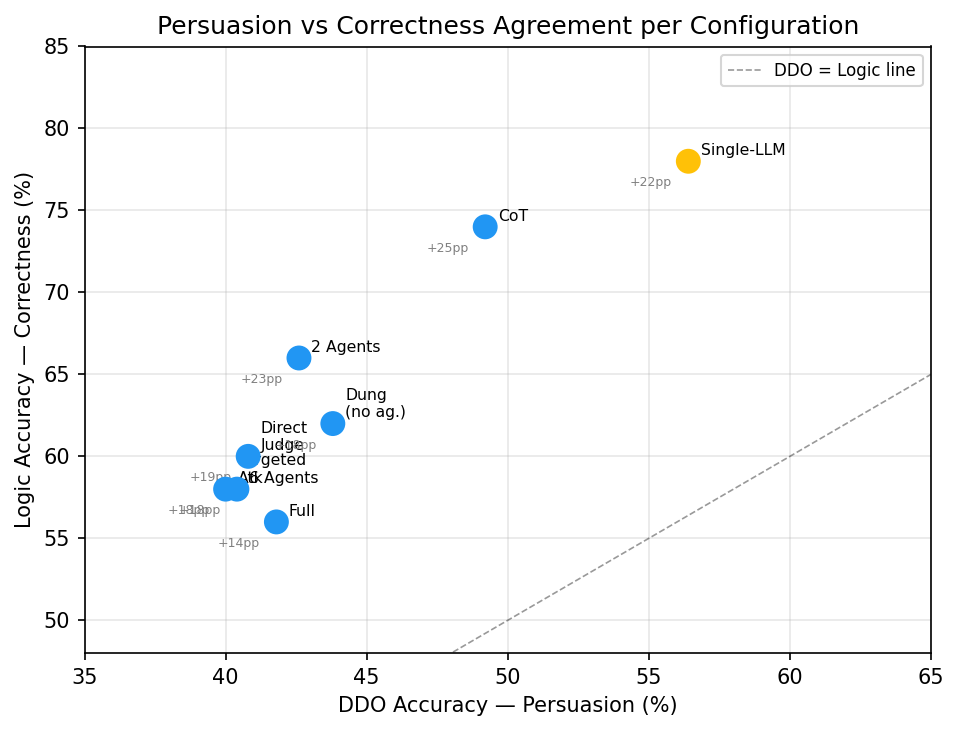
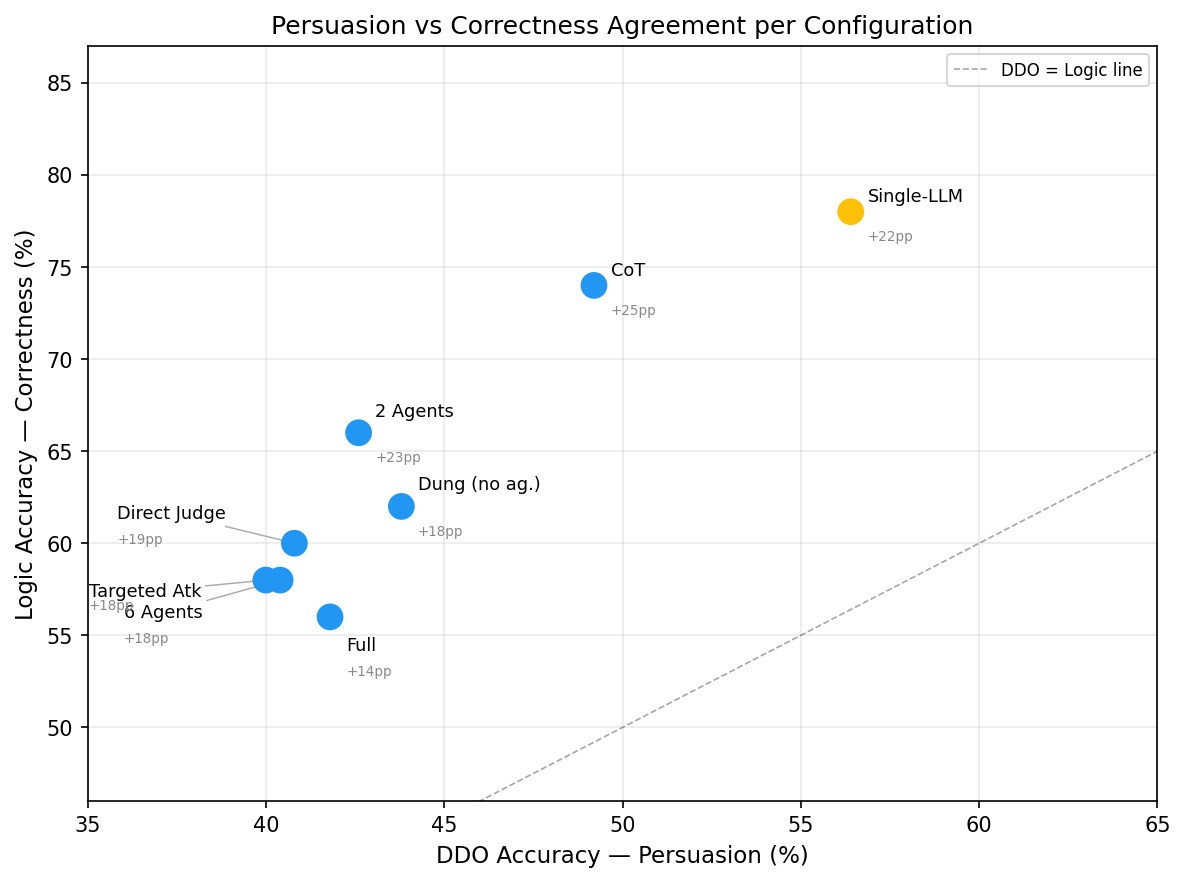
Updates to report

diff --git a/report/report.tex b/report/report.tex
@@ -9,6 +9,7 @@
 \usepackage{xcolor}
 \usepackage{tikz}
 \usetikzlibrary{arrows.meta, positioning, shapes.geometric}
+\usepackage{amssymb}
 \usepackage{hyperref}
 \usepackage{array}
 
@@ -68,12 +69,12 @@
 % ─────────────────────────────────────────────────────────────────────────────
 
 \title{MAJ-Debate: Multi-Agent LLM Argumentation Framework\\
-       for Automated Debate Judgment: Final Report}
+       for Automated Debate Judgment}
 
-\author{Prajwal Bhandary \quad Saugat Shakya \quad Prabidhi Pyakurel \quad Rahul Shakya \\[0.3em]
+\author{Prajwal Bhandary \quad Saugat Shakya \quad Prabidhi Pyakurel \quad Rahul Shakya  \quad Shah Md Jobayer \\[0.3em]
         {\small\itshape Natural Language Processing Course, Master's Program} \\
         {\small\itshape Asian Institute of Technology (AIT), Pathum Thani, Thailand} \\
-        {\small\ttfamily \{st126380,st125974,st125982,st125986\}@ait.ac.th}}
+        {\small\ttfamily \{st126380,st125974,st125982,st125986,st126404\}@ait.ac.th}}
 
 \date{}
 
@@ -246,7 +247,7 @@ Figure~\ref{fig:pipeline}.
 \begin{tikzpicture}[
     node distance=0.7cm and 0.5cm,
     stage/.style={rectangle, draw, rounded corners=4pt, text centered,
-                  minimum height=1.0cm, minimum width=8cm, font=\small},
+                  minimum height=1.0cm, minimum width=12cm, font=\small},
     agent/.style={rectangle, draw, rounded corners=3pt, text centered,
                   minimum height=0.8cm, minimum width=1.8cm, font=\footnotesize},
     arr/.style={->, thick},
@@ -257,7 +258,7 @@ Figure~\ref{fig:pipeline}.
 \node[agent, fill=red!15,   right=1.0cm of p3] (c1) {Con 1};
 \node[agent, fill=red!15,   right=0.4cm of c1] (c2) {Con 2};
 \node[agent, fill=red!15,   right=0.4cm of c2] (c3) {Con 3};
-\node[above=0.15cm of p2, font=\small\bfseries, anchor=south]
+\node[above=0.15cm of p3, xshift=1.4cm, font=\small\bfseries, anchor=south]
     {Stage 1: Side-Picking Agents (R1 + R2)};
 \node[stage, fill=orange!20, below=1.0cm of p3, xshift=1.3cm] (atk)
     {Stage 2: Attack-Relation Brain \quad
@@ -332,6 +333,49 @@ however, scoring on defended positions yields:
 \end{align*}
 giving a \textbf{graph verdict of CON} (correct, margin~$-1.0$\,pp).
 
+\begin{figure}[t]
+\centering
+\begin{tikzpicture}[
+  node distance=1.8cm,
+  every node/.style={circle, draw, thick, minimum size=0.9cm, font=\small},
+  pro/.style={fill=blue!15, draw=blue!60},
+  con/.style={fill=red!15, draw=red!60},
+  att/.style={-{Stealth[length=6pt]}, thick},
+]
+
+%% Nodes
+\node[pro] (P1) at (0, 0)   {$p_1$};
+\node[pro] (P2) at (0,-1.8) {$p_2$};
+\node[pro] (P3) at (0,-3.6) {$p_3$};
+
+\node[con] (C1) at (3.5, 0)   {$c_1$};
+\node[con] (C2) at (3.5,-1.8) {$c_2$};
+\node[con] (C3) at (3.5,-3.6) {$c_3$};
+
+%% Con attacks Pro
+\draw[att, red!70] (C1) -- (P1);
+\draw[att, red!70] (C2) -- (P2);
+\draw[att, red!70] (C3) -- (P3);
+
+%% Con arguments are unattacked (grounded, defended)
+%% Add a dummy attacker on Pro side that gets rebutted
+\draw[att, blue!60] (P1) to[bend left=20] (C2);
+\draw[att, red!70]  (C1) to[bend left=20] (P1);  %% C1 defeats P1's attack
+
+%% Labels
+\node[draw=none, fill=none, font=\footnotesize\itshape, text=blue!70]
+  at (-1.1, -1.8) {Pro};
+\node[draw=none, fill=none, font=\footnotesize\itshape, text=red!70]
+  at (4.6, -1.8)  {Con};
+
+\end{tikzpicture}
+\caption{Simplified Dung attack graph (6 nodes). Con arguments $c_1$–$c_3$
+are unattacked and form the grounded extension; $p_1$'s counter-attack on
+$c_2$ is defeated by $c_1$. Scoring defended positions yields
+\textsc{Pro}\,=\,0.0, \textsc{Con}\,=\,1.0 $\Rightarrow$ verdict \textbf{CON}.}
+\label{fig:dung-simple}
+\end{figure}
+
 \paragraph{Stage 4 -- Judge override.}
 Despite \texttt{used\_graph=True}, the judge returns:
 \begin{quote}
@@ -345,14 +389,6 @@ This is a canonical \textbf{E3 -- judge override} failure
 (\S\ref{sec:error}).
 The final pipeline output is \textbf{PRO~$\times$} versus gold \textbf{CON}.
 
-\begin{figure}[t]
-  \centering
-  \includegraphics[width=\columnwidth]{figures/fig_running_example.png}
-  \caption{Four-stage pipeline walkthrough for LOGIC\_002 (``penguins can
-  fly''). The Dung graph correctly returns CON but the Stage~4 judge
-  overrides the verdict to PRO, illustrating failure mode E3.}
-  \label{fig:running}
-\end{figure}
 
 %% ── 4. Dataset and Exploratory Analysis ───────────────────────────────────────
 \section{Dataset and Exploratory Analysis}

diff --git a/report/generate_figures.py b/report/generate_figures.py
@@ -103,34 +103,86 @@ def fig_ablation_actual():
 # ─────────────────────────────────────────────────────────────────────────────
 # Fig 2  Persuasion vs Correctness scatter
 # ─────────────────────────────────────────────────────────────────────────────
+# pip install adjustText
+from adjustText import adjust_text
+
 def fig_persuasion_vs_correctness():
-    fig, ax = plt.subplots(figsize=(6.5, 5))
-    labels = ['Single-LLM','CoT','Direct\nJudge','2 Agents',
-              '6 Agents','Targeted\nAtk','Dung\n(no ag.)','Full']
-    colors = [C_BASE] + [C_DDO]*7
+    fig, ax = plt.subplots(figsize=(8, 6))
 
-    sc = ax.scatter(DDO_ACC, LOG_ACC, c=colors, s=120, zorder=5)
+    labels = ['Single-LLM', 'CoT', 'Direct Judge', '2 Agents',
+              '6 Agents', 'Targeted Atk', 'Dung (no ag.)', 'Full']
+    colors = [C_BASE] + [C_DDO] * 7
+
+    ax.scatter(DDO_ACC, LOG_ACC, c=colors, s=140, zorder=5)
+
+    # Manually tuned offsets (x_offset, y_offset) in points for each label
+    offsets = {
+        'Single-LLM':    (  8,   5),
+        'CoT':           (  8,   5),
+        'Direct Judge':  (-85,  12),
+        '2 Agents':      (  8,   8),
+        '6 Agents':      ( -75, -18),  # ← push left & down, away from Full
+        'Targeted Atk':  (-85,  -8),
+        'Dung (no ag.)': (  8,   8),
+        'Full':          (  8,  -16),  # ← push right & down
+    }
+
+
     for i, lbl in enumerate(labels):
-        ax.annotate(lbl, (DDO_ACC[i], LOG_ACC[i]),
-                    textcoords='offset points', xytext=(6, 3), fontsize=7.5)
+        dx, dy = offsets[lbl]
+        ax.annotate(
+            lbl,
+            xy=(DDO_ACC[i], LOG_ACC[i]),
+            xytext=(dx, dy),
+            textcoords='offset points',
+            fontsize=8.5,
+            fontweight='medium',
+            arrowprops=dict(
+                arrowstyle='-',
+                color='#aaaaaa',
+                lw=0.7,
+                shrinkA=0,
+                shrinkB=4,
+            ) if abs(dx) > 15 else None,
+        )
 
-    # Diagonal (DDO = Logic)
-    ax.plot([35, 65], [35, 65], 'k--', lw=0.8, alpha=0.4, label='DDO = Logic line')
-    ax.set_xlabel('DDO Accuracy — Persuasion (%)')
-    ax.set_ylabel('Logic Accuracy — Correctness (%)')
-    ax.set_title('Persuasion vs Correctness Agreement per Configuration')
-    ax.set_xlim(35, 65)
-    ax.set_ylim(48, 85)
-    ax.grid(alpha=0.3)
+    # Gap annotations — always directly below each point
 
-    # Gap annotation
-    for i in range(N):
+    gap_offset = {
+        'Single-LLM':    (  8, -14),
+        'CoT':           (  8, -14),
+        'Direct Judge':  (-85,   0),
+        '2 Agents':      (  8, -14),
+        '6 Agents':      (-75, -30),   # ← follows label downward
+        'Targeted Atk':  (-85, -14),
+        'Dung (no ag.)': (  8, -14),
+        'Full':          (  8, -28),
+    }
+
+    for i, lbl in enumerate(labels):
         gap = LOG_ACC[i] - DDO_ACC[i]
-        ax.annotate(f'+{gap:.0f}pp', (DDO_ACC[i], LOG_ACC[i]),
-                    textcoords='offset points', xytext=(-28, -12),
-                    fontsize=6, color='gray')
+        dx, dy = gap_offset[lbl]
+        ax.annotate(
+            f'+{gap:.0f}pp',
+            xy=(DDO_ACC[i], LOG_ACC[i]),
+            xytext=(dx, dy),
+            textcoords='offset points',
+            fontsize=6.5,
+            color='#888888',
+            ha='left',
+        )
 
+    # Diagonal reference line
+    ax.plot([35, 65], [35, 65], 'k--', lw=0.8, alpha=0.35, label='DDO = Logic line')
+
+    ax.set_xlabel('DDO Accuracy — Persuasion (%)', fontsize=11)
+    ax.set_ylabel('Logic Accuracy — Correctness (%)', fontsize=11)
+    ax.set_title('Persuasion vs Correctness Agreement per Configuration', fontsize=12)
+    ax.set_xlim(35, 65)
+    ax.set_ylim(46, 87)
+    ax.grid(alpha=0.25)
     ax.legend(fontsize=8)
+
     fig.tight_layout()
     p = OUT / 'fig_persuasion_vs_correctness.png'
     fig.savefig(p, dpi=150, bbox_inches='tight')
